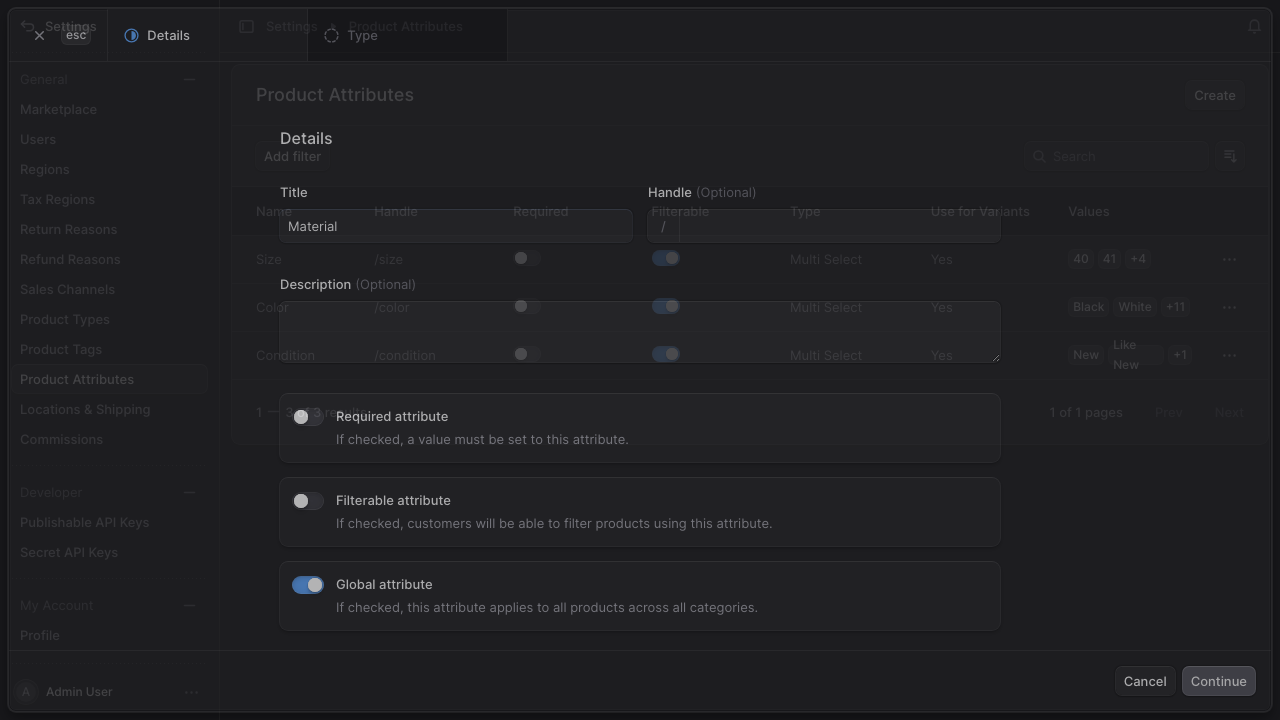
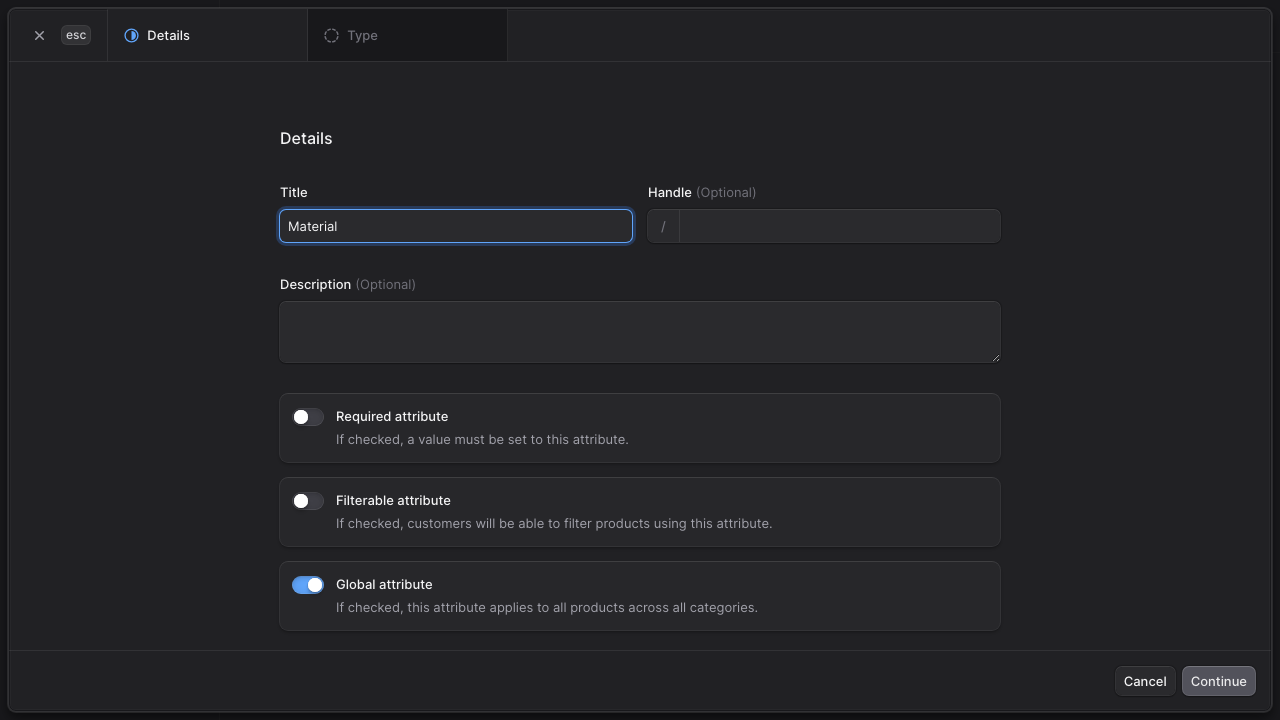
fix(docs): capture guide screenshots with animations disabled
Freeze CSS transitions to their end state when capturing, so modals and
drawers are screenshotted fully open instead of mid-fade at partial opacity.
Also harden the highlight helper to never fail when its target is absent,
open list rows via search for a deterministic match, and raise the action
timeout so a loaded machine does not trip the row and modal waits.

diff --git a/e2e-tests/guides/driver.ts b/e2e-tests/guides/driver.ts
@@ -134,12 +134,20 @@ export async function runStep(
 
   try {
     if (typeof shot === "object" && "element" in shot) {
-      await resolveLocator(page, shot.element).screenshot({ path: filePath })
+      await resolveLocator(page, shot.element).screenshot({
+        path: filePath,
+        animations: "disabled",
+        caret: "hide",
+      })
     } else {
       await page.screenshot({
         path: filePath,
         fullPage: shot === "full",
         mask,
+        // Finish CSS transitions/animations to their end state so modals and
+        // drawers are captured fully open, never mid-fade at partial opacity.
+        animations: "disabled",
+        caret: "hide",
       })
     }
   } finally {

diff --git a/e2e-tests/playwright.guides.config.ts b/e2e-tests/playwright.guides.config.ts
@@ -26,7 +26,9 @@ export default defineConfig({
   reporter: [["list"]],
 
   use: {
-    actionTimeout: 15_000,
+    // Generous timeouts: generation runs the full stack plus a browser on one
+    // machine, so lists and modals can be slow to settle under load.
+    actionTimeout: 30_000,
     navigationTimeout: 30_000,
     // Deterministic, high-DPI screenshots for crisp docs images. Force the dark
     // theme to match the docs site's dark-first palette.

diff --git a/e2e-tests/guides/definitions/update-prices-and-stock.ts b/e2e-tests/guides/definitions/update-prices-and-stock.ts
@@ -24,7 +24,8 @@ export default defineGuide({
     },
     {
       title: "Open the offer",
-      body: "Selecting a row opens the offer's detail page.",
+      body: "Search for the offer by product name, then select its row to open the detail page.",
+      fill: [{ target: { placeholder: "Search" }, value: "Apex Pool Slides" }],
       click: { role: "row", name: /apex pool slides/i },
       shot: false,
     },

diff --git a/e2e-tests/guides/definitions/edit-a-product.ts b/e2e-tests/guides/definitions/edit-a-product.ts
@@ -26,7 +26,8 @@ export default defineGuide({
     },
     {
       title: "Open the product",
-      body: "Selecting a row opens the product's detail page.",
+      body: "Search for the product by name, then select its row to open the detail page.",
+      fill: [{ target: { placeholder: "Search" }, value: "Apex Pool Slides" }],
       click: { role: "row", name: /apex pool slides/i },
       shot: false,
     },
